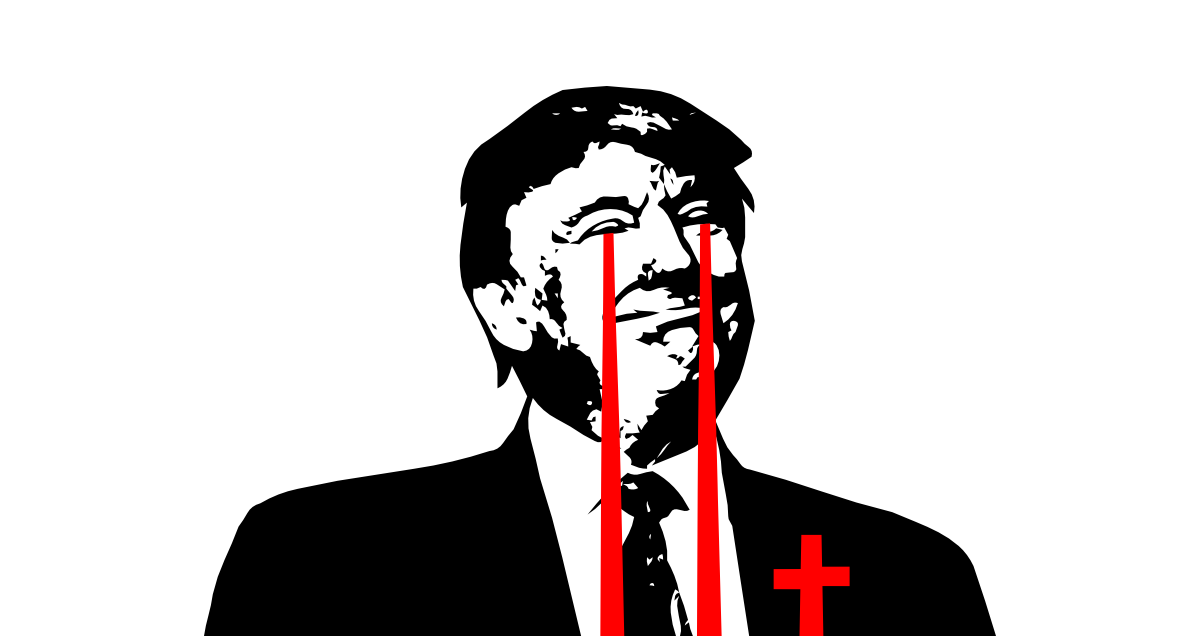
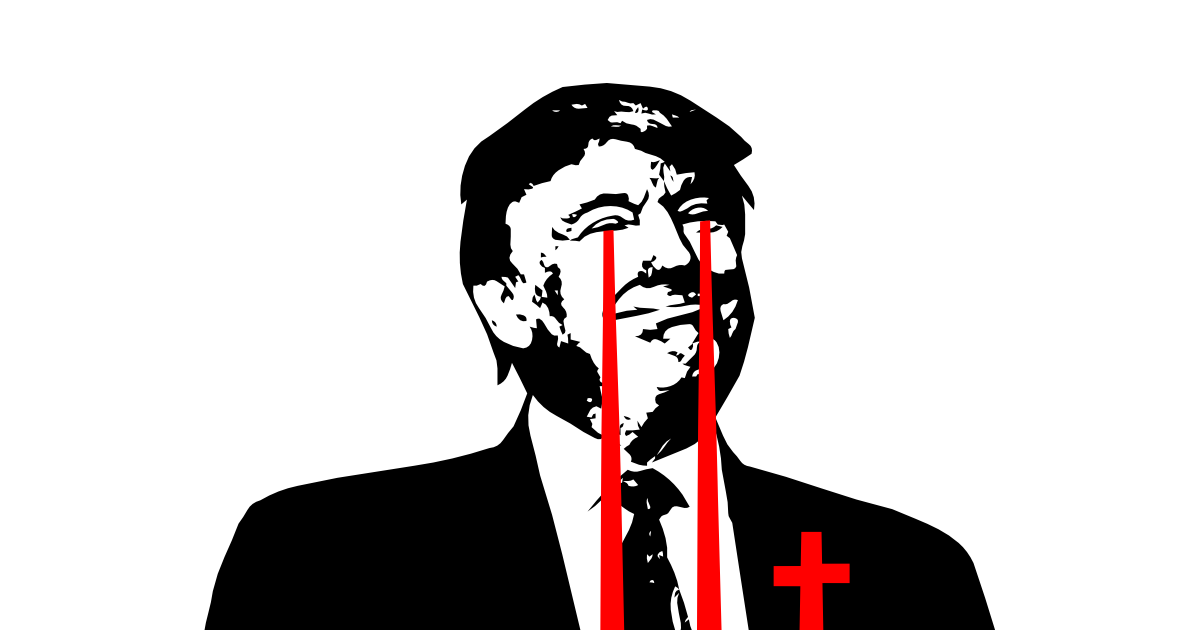
Udpdate share img

diff --git a/info.html b/info.html
@@ -13,7 +13,7 @@
         <link rel="manifest" href="/manifest.json" type="application/json">
         <link rel="canonical" href="https://trumpdown.maxsheridan.com/info">
         <title>Info - Trumpdown</title>
-        <meta name="description" content="This site is published on GitHub in a secret cave guarded by Danny Trejo.">
+        <meta name="description" content="This website was made with love and rancor. Files are published on GitHub (in a secret cave guarded by Danny Trejo.)">
         <meta name="thumbnail" content="https://trumpdown.maxsheridan.com/graphics/share.webp?v=2">
         <meta property="og:site_name" content="Trumpdown">
         <meta property="og:title" content="Trumpdown">
@@ -22,7 +22,16 @@
         <meta property="og:image" content="https://trumpdown.maxsheridan.com/graphics/share.webp?v=2">
         <meta property="og:image:type" content="image/webp">
         <meta property="og:image:width" content="1200">
-        <meta property="og:image:height" content="636">
+        <meta property="og:image:height" content="630">
+        <script type="application/ld+json">
+        {
+            "@context": "https://schema.org",
+            "@type": "WebPage",
+            "name": "Info",
+            "description": "This website was made with love and rancor. Files are published on GitHub (in a secret cave guarded by Danny Trejo.)",
+            "url": "https://trumpdown.maxsheridan.com/info"
+        }
+        </script>
     </head>
     <body>
         <div class="acme-all-purpose-wrapper">
@@ -63,14 +72,5 @@
                 </div>
             </nav>
         </div>
-        <script type="application/ld+json">
-        {
-            "@context": "https://schema.org",
-            "@type": "WebPage",
-            "name": "Info",
-            "description": "This site is published on GitHub in a secret cave guarded by Danny Trejo.",
-            "url": "https://trumpdown.maxsheridan.com/info"
-        }
-        </script>
     </body>
 </html>

diff --git a/index.html b/index.html
@@ -23,7 +23,7 @@
         <meta property="og:image" content="https://trumpdown.maxsheridan.com/graphics/share.webp?v=2">
         <meta property="og:image:type" content="image/webp">
         <meta property="og:image:width" content="1200">
-        <meta property="og:image:height" content="636">
+        <meta property="og:image:height" content="630">
         <script type="application/ld+json">
             {
                 "@context": "https://schema.org",
